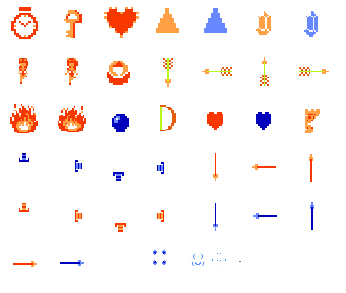
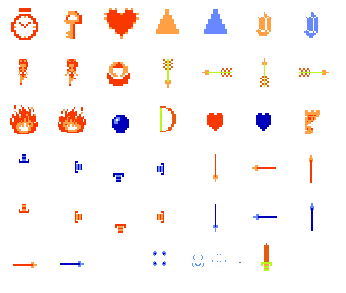
Added Sword item and updated items.png, item factory, and sprites to have it

diff --git a/LOZ/ItemClasses/Items/Sword.cs b/LOZ/ItemClasses/Items/Sword.cs
@@ -1,0 +1,24 @@
+using System;
+using Microsoft.Xna.Framework.Graphics;
+using Microsoft.Xna.Framework;
+using LOZ.Factories;
+
+namespace LOZ.ItemsClasses
+{
+    class Sword : ItemAbstract
+    {
+
+        public Sword(Point itemLocation)
+        {
+            sprite = ItemFactory.Instance.CreateSwordSprite();
+            _itemLocation = itemLocation;
+            hitBoxWidth = 11;
+            hitBoxHeight = 28;
+        }
+
+        public override void Update(GameTime gameTime)
+        {
+            sprite.Update(gameTime);
+        }
+    }
+}

diff --git a/LOZ/SpriteClasses/ItemSprites/SwordSprite.cs b/LOZ/SpriteClasses/ItemSprites/SwordSprite.cs
@@ -1,0 +1,21 @@
+using Microsoft.Xna.Framework.Graphics;
+using Microsoft.Xna.Framework;
+
+namespace LOZ.SpriteClasses.ItemSprites
+{
+	class SwordSprite : AbstractItemBlockClass
+	{ 
+
+		//-----Constructor-----
+		public SwordSprite(Texture2D texture)
+		{
+			scale = 2.0;
+			_texture = texture;
+			frame = new Rectangle(261, 243, 11, 28);
+		}
+
+		//-----Update frame-----
+		public override void Update(GameTime gameTime) { }
+		
+	}
+}

diff --git a/LOZ/Factories/ItemFactory.cs b/LOZ/Factories/ItemFactory.cs
@@ -119,6 +119,10 @@ namespace LOZ.Factories
 		{
 			return new BowSprite(ItemSpriteSheet);
 		}
+		public ISprite CreateSwordSprite()
+        {
+			return new SwordSprite(ItemSpriteSheet);
+        }
 		public ISprite CreateHeartSprite()
 		{
 			return new HeartSprite(ItemSpriteSheet);
